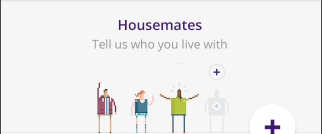
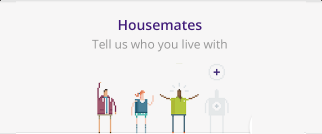
user profile

Changed region(s): [[0.9317, 0.0, 1.0, 1.0], [0.8075, 0.8955, 0.8696, 1.0], [0.0, 0.9851, 0.0621, 1.0]]

diff --git a/src/components/home.js b/src/components/home.js
@@ -16,11 +16,11 @@ class Main extends Component {
         return (
             <View style={styles.container}>
                 <View style={styles.top}>
-                    <View style={{ flex: 0.9 }}>
+                    <View style={{ flex: 0.8 }}>
                         <Text style={styles.myTitle}>{this.props.title}</Text>
                     </View>
-                    <View style={{ flex: 0.1 }}>
-                        <Text style={styles.closeBtn}>X</Text>
+                    <View style={{ flex: 0.2 }}>
+                        <Text style={styles.closeBtn} onPress={() => { Actions.launch() }}>X</Text>
                     </View>
                 </View>
                 <View style={styles.center}>
@@ -28,6 +28,23 @@ class Main extends Component {
                         <Image source={HOUSE} style={styles.imgCover} />
                     </View>
                     <View style={styles.userContainer}>
+                        <View style={{ flex: 0.1, flexDirection: 'row', justifyContent: 'space-between', }}>
+                            <View style={{ flex: 0.7 }}></View>
+                            <View style={{
+                                backgroundColor: '#ECECEC',
+                                flex: 0.1,
+                                zIndex: 99,
+                                borderBottomLeftRadius: 150,
+                                borderBottomRightRadius: 150,
+                                borderTopLeftRadius: 150,
+                                borderTopRightRadius: 150,
+                            }}>
+                                <TouchableOpacity onPress={() => { Actions.addUser() }}>
+                                    <Text style={styles.plus}>+</Text>
+                                </TouchableOpacity>
+                            </View>
+                            <View style={{ flex: 0.2 }}></View>
+                        </View>
                         <View style={styles.userMainContainer}>
                             <View style={styles.userSubContainer}>
                                 <View style={styles.userView}>
@@ -83,9 +100,9 @@ class Main extends Component {
                                 </View>
 
                             </View>
-                            
+
                         </View>
-                        <View style={{ flex: 0.1, backgroundColor: "red" }}></View>
+                        <View style={{ flex: 0.1 }}></View>
                     </View>
                 </View>
                 <View style={styles.bottom}>
@@ -128,12 +145,12 @@ const styles = StyleSheet.create({
         justifyContent: 'space-between'
     },
     myTitle: {
-        fontSize: 24,
+        fontSize: 18,
         fontWeight: '400',
-        textAlign: 'center',
+        textAlign: 'right',
         color: '#fff',
         textAlignVertical: 'center',
-        padding: 15,
+        padding: 18,
         fontFamily: 'Verdana'
     },
     myzBottomText: {
@@ -145,19 +162,35 @@ const styles = StyleSheet.create({
     },
     closeBtn: {
         color: '#fff',
-        textAlign: 'center',
         fontWeight: 'bold',
-        fontSize: 18,
-        padding: 20,
+        fontSize: 16,
+        padding: 22,
         fontFamily: 'Verdana',
+        textAlign: 'center',
     },
-    userContainer: { flex: 0.7 },
-    userMainContainer: { flex: 0.9, marginTop: 10 },
-    userSubContainer: { flex: 0.5, flexDirection: 'row' },
-    houseImg: { flex: 0.3 },
-    userView: { flex: 0.33 },
-    userTextView: { flex: 0.1 },
-    userImageView: { flex: 0.9 },
+    userContainer: {
+        flex: 0.7
+    },
+    userMainContainer: {
+        flex: 0.8,
+        marginTop: 10
+    },
+    userSubContainer: {
+        flex: 0.5,
+        flexDirection: 'row'
+    },
+    houseImg: {
+        flex: 0.3
+    },
+    userView: {
+        flex: 0.33
+    },
+    userTextView: {
+        flex: 0.1
+    },
+    userImageView: {
+        flex: 0.9
+    },
     userImage: {
         borderBottomLeftRadius: 150,
         borderBottomRightRadius: 150,
@@ -166,5 +199,15 @@ const styles = StyleSheet.create({
         marginLeft: 10,
         marginTop: 20,
     },
-    imageText: { textAlign: 'center', fontSize: 12 }
+    imageText: {
+        textAlign: 'center',
+        fontSize: 12
+    },
+    plus: {
+        color: 'rgb(68, 35, 124)',
+        fontSize: 40,
+        fontWeight: '800',
+        textAlign: 'center',
+        marginTop: -10
+    }
 });

diff --git a/src/components/user.js b/src/components/user.js
@@ -1,0 +1,118 @@
+import React, { Component } from "react";
+import { View,TextInput, Text, StyleSheet, Platform, Image, Dimensions, TouchableOpacity } from 'react-native';
+import HOME_IMAGE from '../images/home.png';
+import SEARCH_IMAGE from '../images/search.png';
+let { height, width } = Dimensions.get('window');
+import { Actions } from 'react-native-router-flux';
+class User extends Component {
+    constructor(props) {
+        super(props);
+        console.log("Launch...!");
+    }
+
+    render() {
+        return (
+            <View style={styles.container}>
+                <View style={styles.top}>
+                <View style={{ flex: 0.8 }}>
+                        <Text style={styles.myTitle}>{this.props.title}</Text>
+                    </View>
+                    <View style={{ flex: 0.2 }}>
+                        <Text style={styles.closeBtn} onPress={() => { Actions.launch() }}>X</Text>
+                    </View>
+                </View>
+                <View style={styles.center}>
+                    <View style={{ flex: 0.1 }}>
+                        <TextInput style={styles.inputText} name="email" placeholder="Email" placeholderTextColor="#fff" />
+                    </View>
+                    <View style={{ flex: 0.4 }}>
+                        <TouchableOpacity onPress={() => { Actions.home() }}>
+                            <Image source={HOME_IMAGE} style={styles.imgCover} />
+                        </TouchableOpacity>
+                    </View>
+                    <View style={{ flex: 0.1 }}></View>
+                    <View style={{ flex: 0.4 }}>
+                        <TouchableOpacity>
+                            <Image source={SEARCH_IMAGE} style={styles.imgCover} />
+                        </TouchableOpacity></View>
+                </View>
+                <View style={styles.bottom}>
+                    <Text style={styles.myzBottomText}>Skip & Browse</Text>
+                </View>
+
+                {/* <TouchableOpacity onPress={()=>{ Actions.main()}}> 
+                    <Image source={COVER_IMAGE} style={styles.imgCover} />
+                  </TouchableOpacity> */}
+            </View>
+        )
+    }
+}
+
+
+export default User;
+
+const styles = StyleSheet.create({
+    container: {
+        marginTop: Platform.OS == 'ios' ? 20 : 0,
+        flex: 1,
+        backgroundColor: '#fff',
+        flexDirection: 'column'
+    },
+    imgCover: {
+        marginTop: 25,
+        marginLeft: 50
+    },
+    top: {
+        flex: 0.1,
+        flexDirection: 'row',
+        backgroundColor: 'rgb(68, 35, 124)',
+    },
+    myTitle: {
+        fontSize: 18,
+        fontWeight: '400',
+        textAlign: 'center',
+        color: '#fff',
+        textAlignVertical: 'center',
+        padding: 18,
+        fontFamily: 'Verdana'
+    },
+    closeBtn: {
+        color: '#fff',
+        fontWeight: 'bold',
+        fontSize: 16,
+        padding: 22,
+        fontFamily: 'Verdana',
+        textAlign: 'center',
+    },
+    bottom: {
+        flex: 0.1,
+    },
+    center: {
+        flex: 0.8,
+        flexDirection: 'column',
+        justifyContent: 'space-between'
+    },
+    myTitle: {
+        fontSize: 24,
+        fontWeight: '400',
+        textAlign: 'center',
+        color: '#fff',
+        textAlignVertical: 'center',
+        padding: 15,
+        fontFamily: 'Verdana'
+    },
+    myzBottomText: {
+        textAlign: 'center',
+        color: 'rgba(155,155,155,0.9)',
+        fontSize: 16,
+        fontFamily: 'Verdana',
+        padding: 15
+    },inputText: {
+        color: '#fff',
+        fontSize: 18,
+        borderBottomWidth: 1,
+        borderBottomColor: '#fff',
+        padding: 10,
+        margin: 25
+    }
+});

diff --git a/src/Router.js b/src/Router.js
@@ -4,6 +4,7 @@ import { Text } from 'react-native';
 import Launch from './components/';
 import Main from './components/main';
 import Home from './components/home';
+import User from './components/user';
 
 export default class RouterComponent extends Component {
 
@@ -15,7 +16,8 @@ export default class RouterComponent extends Component {
                     <Stack key="tab_" hideNavBar hideTabBar>
                         <Scene key="main" component={Main} title="Create a Profile" />
                         <Scene key="home" component={Home} title="Create a New Home" />
-
+                        <Scene key="addUser" component={User} title="Add a Person" />
+                        
                     </Stack>
                 </Scene>
             </Router>
